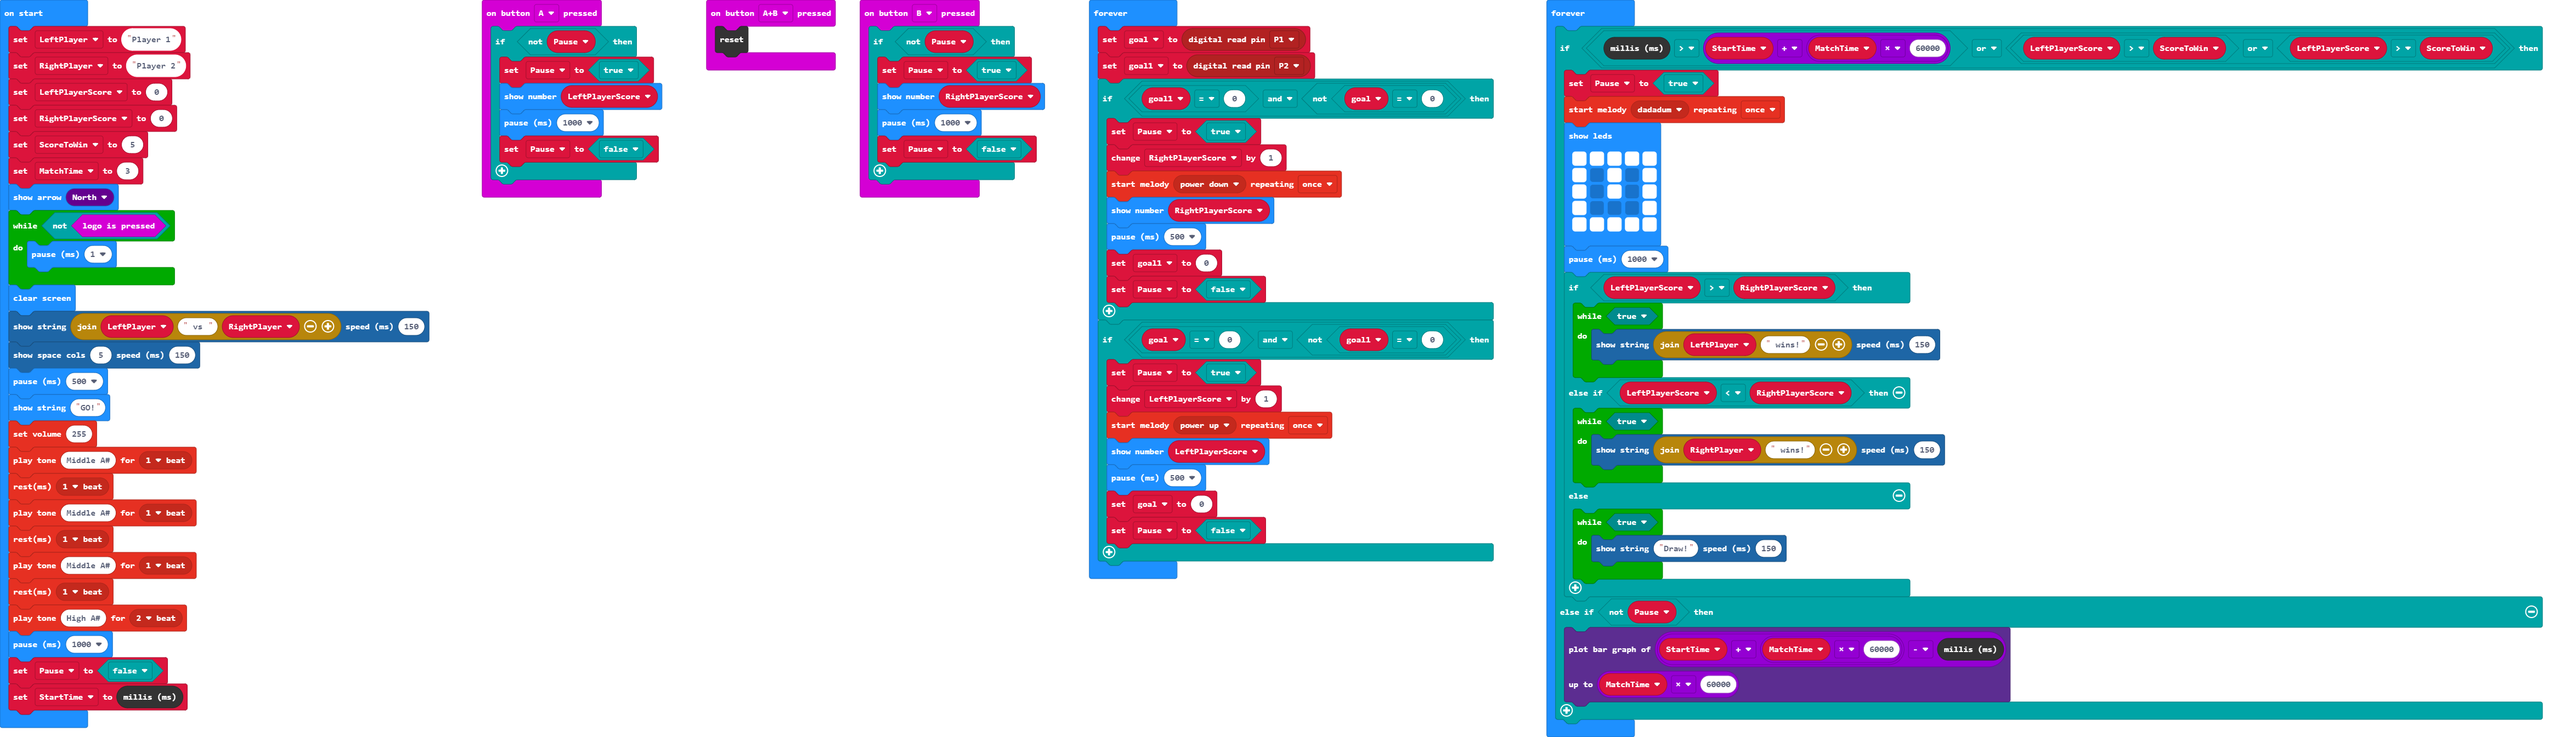
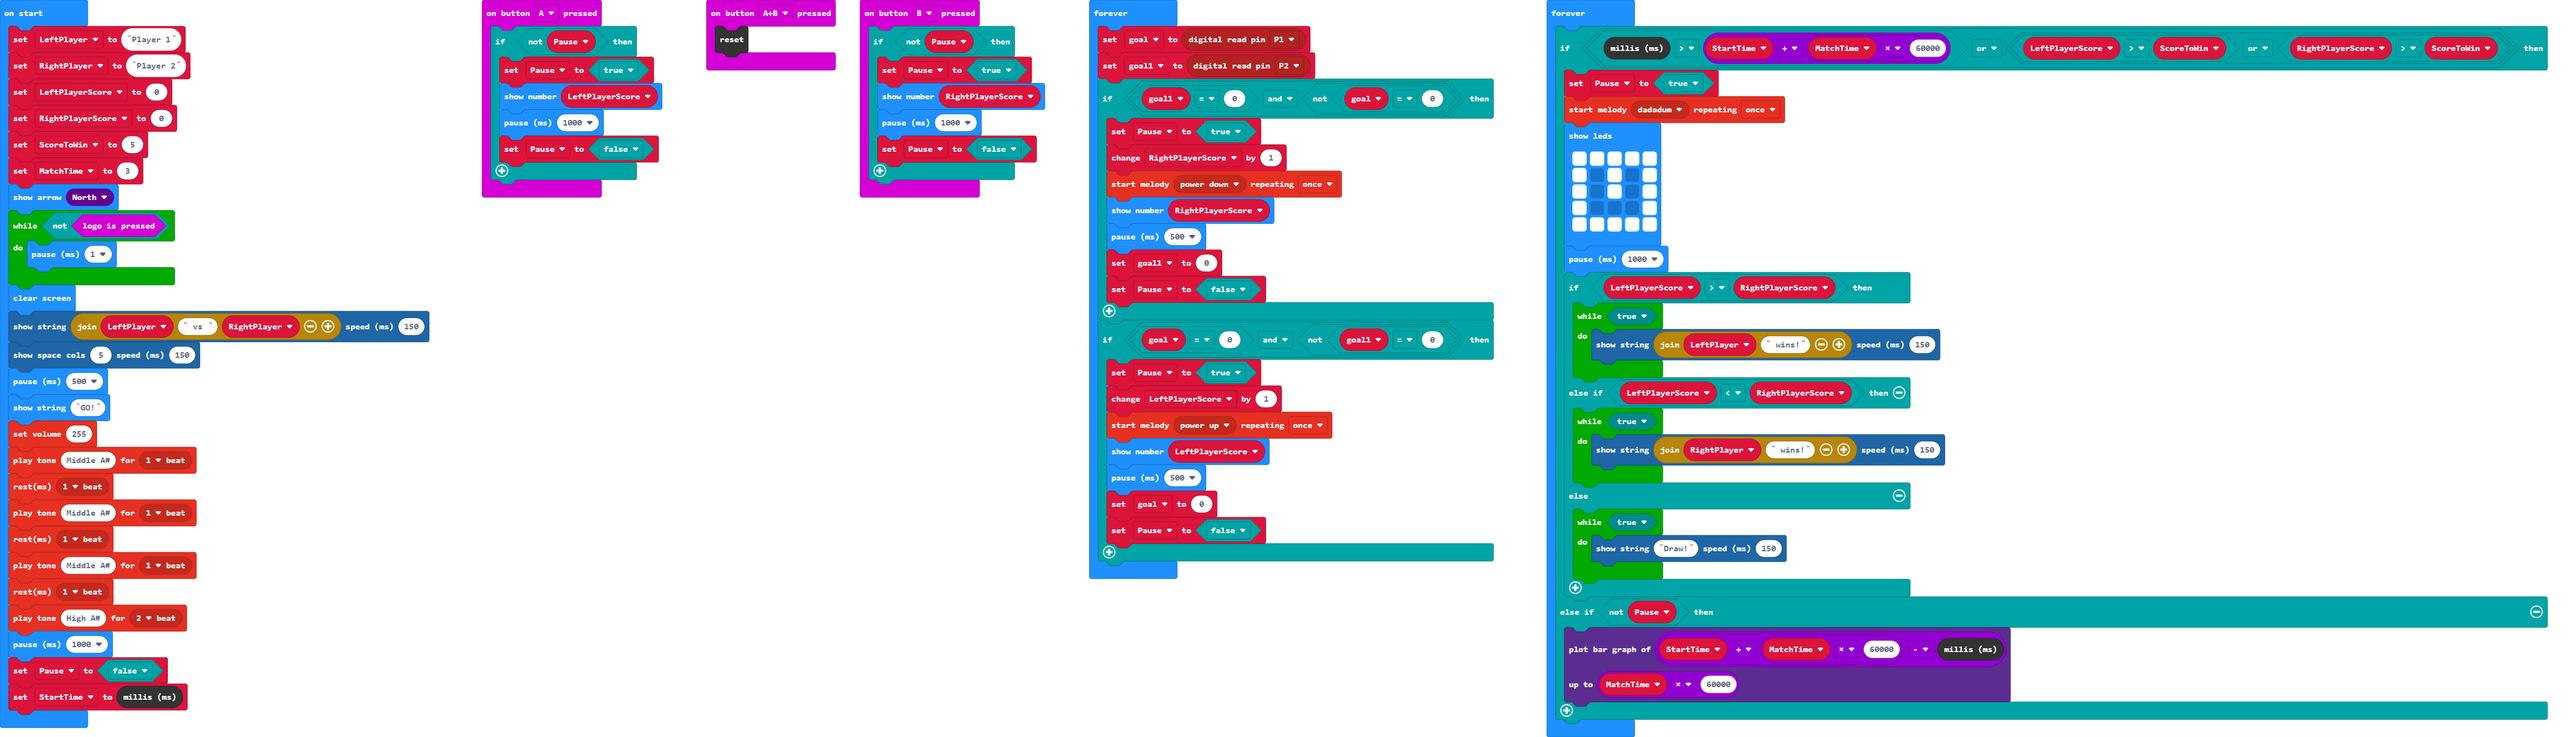
Update pxt.json, main.blocks, main.ts, README.md

diff --git a/main.ts b/main.ts
@@ -71,7 +71,7 @@ basic.forever(function () {
     }
 })
 basic.forever(function () {
-    if (control.millis() > StartTime + MatchTime * 60000 || (LeftPlayerScore > ScoreToWin || LeftPlayerScore > ScoreToWin)) {
+    if (control.millis() > StartTime + MatchTime * 60000 || (LeftPlayerScore > ScoreToWin || RightPlayerScore > ScoreToWin)) {
         Pause = true
         music.startMelody(music.builtInMelody(Melodies.Dadadadum), MelodyOptions.Once)
         basic.showLeds(`

diff --git a/README.md b/README.md
@@ -45,7 +45,7 @@
 {
     "name": "Меняем правила!",
     "imageUrl":"https://raw.githubusercontent.com/CraftAndCode/mood-badge/master/mood%20badge%20schematic.gif",
-    "url": "https://makecode.microbit.org/#tutorial:32768-17175-24774-91337", 
+    "url": "https://makecode.microbit.org/#tutorial:44093-35336-48736-30388", 
     "description": "Задаём имена игроков, время матча и фору", 
     "cardType": "tutorial",
     "label": "Easy",
